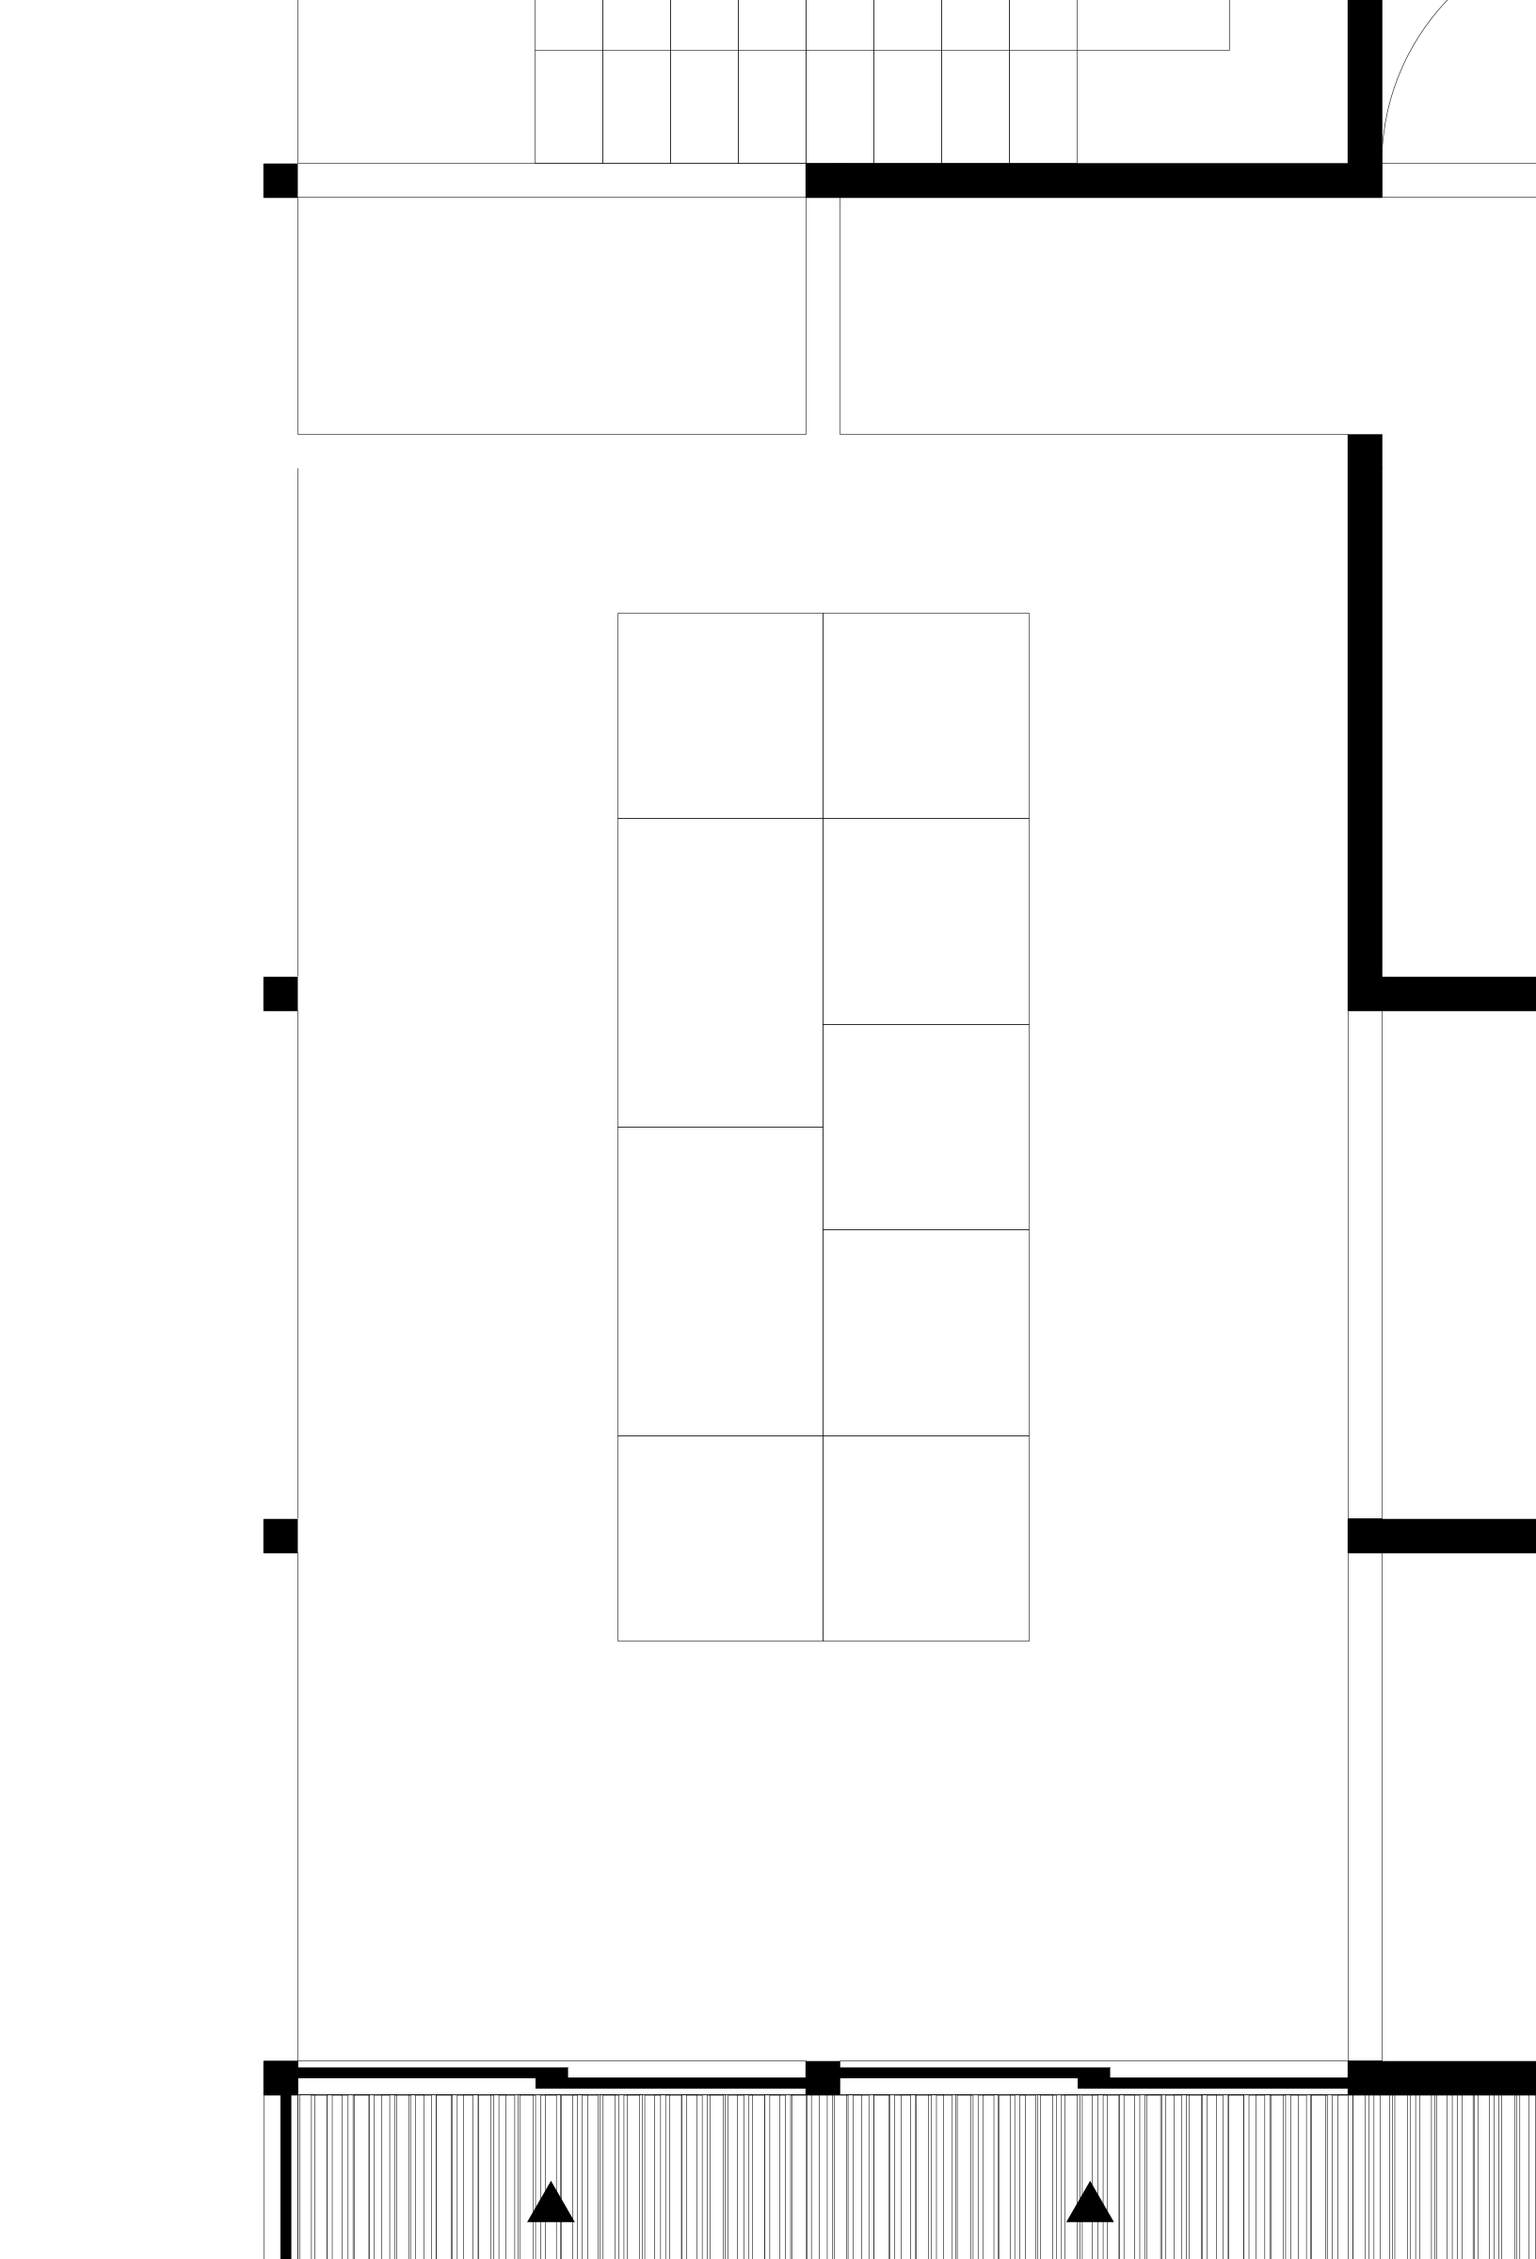
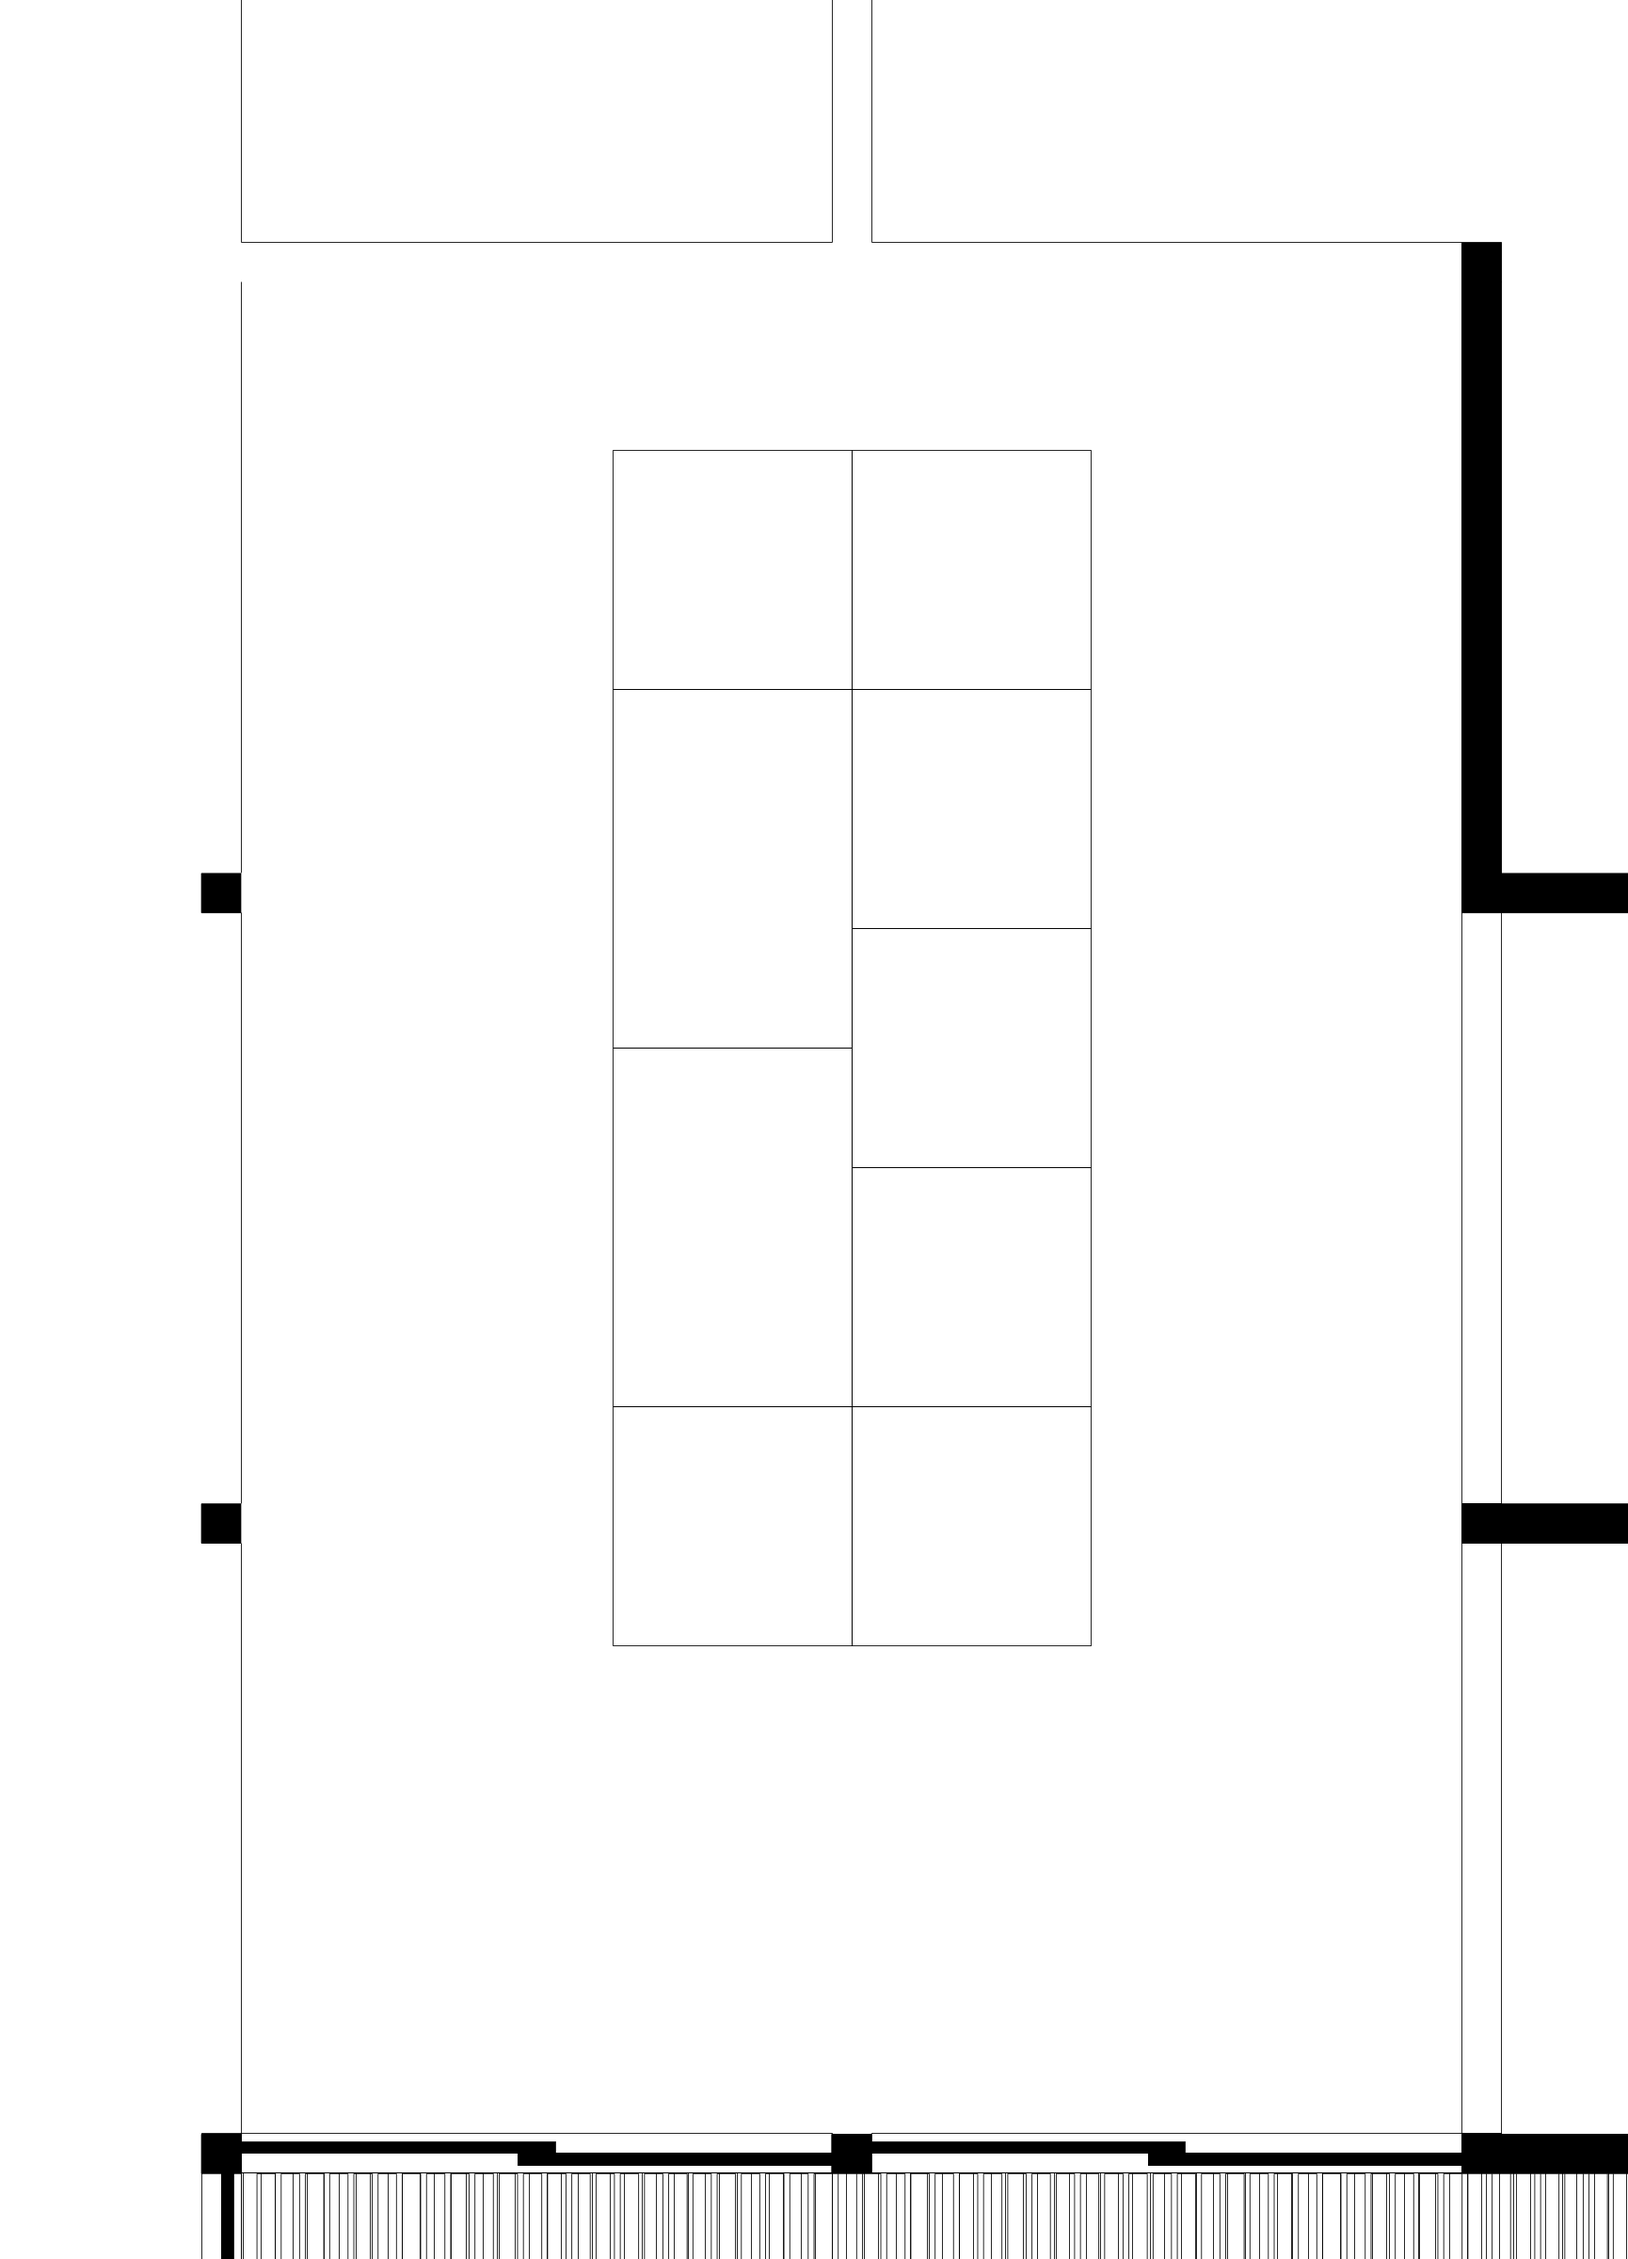
Zoom floor pages closer, thicken plan lines, serve /1f and /2f directly
Claude-Session: https://claude.ai/code/session_01Mu7F4RFLMuTKz8yUKcHKWN

diff --git a/src/notion/api.ts b/src/notion/api.ts
@@ -7,21 +7,21 @@ const TBD = "（準備中）";
 
 export const EXHIBITS_2026: PopupContent[] = [
   // 1F
-  { id: 1, booth: "00", floor: "1F", name: "ADL", grade: "", modalTitle: TBD, modalContent: "", modalImage: "", position: { x: 46.8, y: 68.1 } },
-  { id: 2, booth: "01", floor: "1F", name: "北野", grade: "", modalTitle: TBD, modalContent: "", modalImage: "", position: { x: 60.1, y: 68.1 } },
-  { id: 3, booth: "02", floor: "1F", name: "大箭", grade: "", modalTitle: TBD, modalContent: "", modalImage: "", position: { x: 60.1, y: 59.0 } },
-  { id: 4, booth: "03", floor: "1F", name: "池田", grade: "", modalTitle: TBD, modalContent: "", modalImage: "", position: { x: 60.1, y: 49.9 } },
-  { id: 5, booth: "04", floor: "1F", name: "杉山", grade: "", modalTitle: TBD, modalContent: "", modalImage: "", position: { x: 60.1, y: 40.8 } },
-  { id: 6, booth: "05", floor: "1F", name: "小栗", grade: "", modalTitle: TBD, modalContent: "", modalImage: "", position: { x: 60.1, y: 31.7 } },
+  { id: 1, booth: "00", floor: "1F", name: "ADL", grade: "", modalTitle: TBD, modalContent: "", modalImage: "", position: { x: 44.8, y: 67.6 } },
+  { id: 2, booth: "01", floor: "1F", name: "北野", grade: "", modalTitle: TBD, modalContent: "", modalImage: "", position: { x: 59.5, y: 67.6 } },
+  { id: 3, booth: "02", floor: "1F", name: "大箭", grade: "", modalTitle: TBD, modalContent: "", modalImage: "", position: { x: 59.5, y: 57.0 } },
+  { id: 4, booth: "03", floor: "1F", name: "池田", grade: "", modalTitle: TBD, modalContent: "", modalImage: "", position: { x: 59.5, y: 46.4 } },
+  { id: 5, booth: "04", floor: "1F", name: "杉山", grade: "", modalTitle: TBD, modalContent: "", modalImage: "", position: { x: 59.5, y: 35.8 } },
+  { id: 6, booth: "05", floor: "1F", name: "小栗", grade: "", modalTitle: TBD, modalContent: "", modalImage: "", position: { x: 59.5, y: 25.2 } },
   // 2F
-  { id: 7, booth: "06", floor: "2F", name: "オコーネル", grade: "", modalTitle: TBD, modalContent: "", modalImage: "", position: { x: 50.6, y: 40.7 } },
-  { id: 8, booth: "07", floor: "2F", name: "藤原", grade: "", modalTitle: TBD, modalContent: "", modalImage: "", position: { x: 50.6, y: 61.5 } },
-  { id: 9, booth: "08", floor: "2F", name: "志磨", grade: "", modalTitle: TBD, modalContent: "", modalImage: "", position: { x: 50.6, y: 79.9 } },
+  { id: 7, booth: "06", floor: "2F", name: "オコーネル", grade: "", modalTitle: TBD, modalContent: "", modalImage: "", position: { x: 50.7, y: 22.2 } },
+  { id: 8, booth: "07", floor: "2F", name: "藤原", grade: "", modalTitle: TBD, modalContent: "", modalImage: "", position: { x: 50.7, y: 53.5 } },
+  { id: 9, booth: "08", floor: "2F", name: "志磨", grade: "", modalTitle: TBD, modalContent: "", modalImage: "", position: { x: 50.7, y: 81.0 } },
   // 1F
-  { id: 10, booth: "09", floor: "1F", name: "宮丸", grade: "", modalTitle: TBD, modalContent: "", modalImage: "", position: { x: 46.8, y: 31.7 } },
-  { id: 11, booth: "10", floor: "1F", name: "陳", grade: "", modalTitle: TBD, modalContent: "", modalImage: "", position: { x: 46.8, y: 43.1 } },
-  { id: 12, booth: "11", floor: "1F", name: "森本", grade: "", modalTitle: TBD, modalContent: "", modalImage: "", position: { x: 46.8, y: 56.8 } },
-  { id: 13, booth: "12", floor: "1F", name: "桑原", grade: "", modalTitle: TBD, modalContent: "", modalImage: "", position: { x: 12.6, y: 80.5 } },
+  { id: 10, booth: "09", floor: "1F", name: "宮丸", grade: "", modalTitle: TBD, modalContent: "", modalImage: "", position: { x: 44.8, y: 25.2 } },
+  { id: 11, booth: "10", floor: "1F", name: "陳", grade: "", modalTitle: TBD, modalContent: "", modalImage: "", position: { x: 44.8, y: 38.5 } },
+  { id: 12, booth: "11", floor: "1F", name: "森本", grade: "", modalTitle: TBD, modalContent: "", modalImage: "", position: { x: 44.8, y: 54.4 } },
+  { id: 13, booth: "12", floor: "1F", name: "桑原", grade: "", modalTitle: TBD, modalContent: "", modalImage: "", position: { x: 8.5, y: 82.0 } },
 ];
 
 export const fetchModalContents = async (): Promise<PopupContent[]> =>

diff --git a/src/global/components/PageHeader.tsx b/src/global/components/PageHeader.tsx
@@ -11,29 +11,31 @@ interface PageHeaderProps {
 const PageHeader: React.FC<PageHeaderProps> = ({ headerHeight }) => {
   const navigate = useNavigate();
   const location = useLocation();
+  // サーバーによっては /adl-orf/1f/ のように末尾に / が付く
+  const pathname = location.pathname.replace(/\/+$/, '');
   const [logo, setLogo] = useState<string>(ADLLogo);
   const [pageTitle, setPageTitle] = useState<string>("");
 
   useEffect(() => {
     // Set logo and title based on route
-    if (location.pathname === '/adl-orf/1f') {
+    if (pathname === '/adl-orf/1f') {
       setLogo(ADLLogo);
       setPageTitle("1F");
-    } else if (location.pathname === '/adl-orf/2f') {
+    } else if (pathname === '/adl-orf/2f') {
       setLogo(ADLLogo);
       setPageTitle("2F");
     } else {
       setLogo(ADLLogo);
       setPageTitle("");
     }
-  }, [location.pathname]);
+  }, [pathname]);
 
   const handleBackClick = () => {
     navigate('/adl-orf');
   };
 
   // Don't render on home page
-  if (location.pathname === '/adl-orf' || location.pathname === '/adl-orf/') {
+  if (pathname === '/adl-orf') {
     return null;
   }
 

diff --git a/src/page/Floor/index.tsx b/src/page/Floor/index.tsx
@@ -33,7 +33,7 @@ const FloorPage: React.FC<Props> = ({
   const contents = data.filter((c) => c.floor === floor);
   const image = floor === "1F" ? Floor1Detail : Floor2Detail;
   // 詳細図の縦横比（幅 / 高さ）
-  const ratio = floor === "1F" ? 1632 / 2400 : 1120 / 2400;
+  const ratio = floor === "1F" ? 1730 / 2400 : 1320 / 2400;
 
   return (
     <>

diff --git a/src/global/components/PageTabs.tsx b/src/global/components/PageTabs.tsx
@@ -13,7 +13,7 @@ const PageTabs: React.FC = () => {
 
   // Determine active tab index based on current path
   const getActiveIndex = () => {
-    const currentPath = location.pathname;
+    const currentPath = location.pathname.replace(/\/+$/, '');
     const index = tabs.findIndex((tab) => tab.path === currentPath);
     return index !== -1 ? index : 0;
   };
